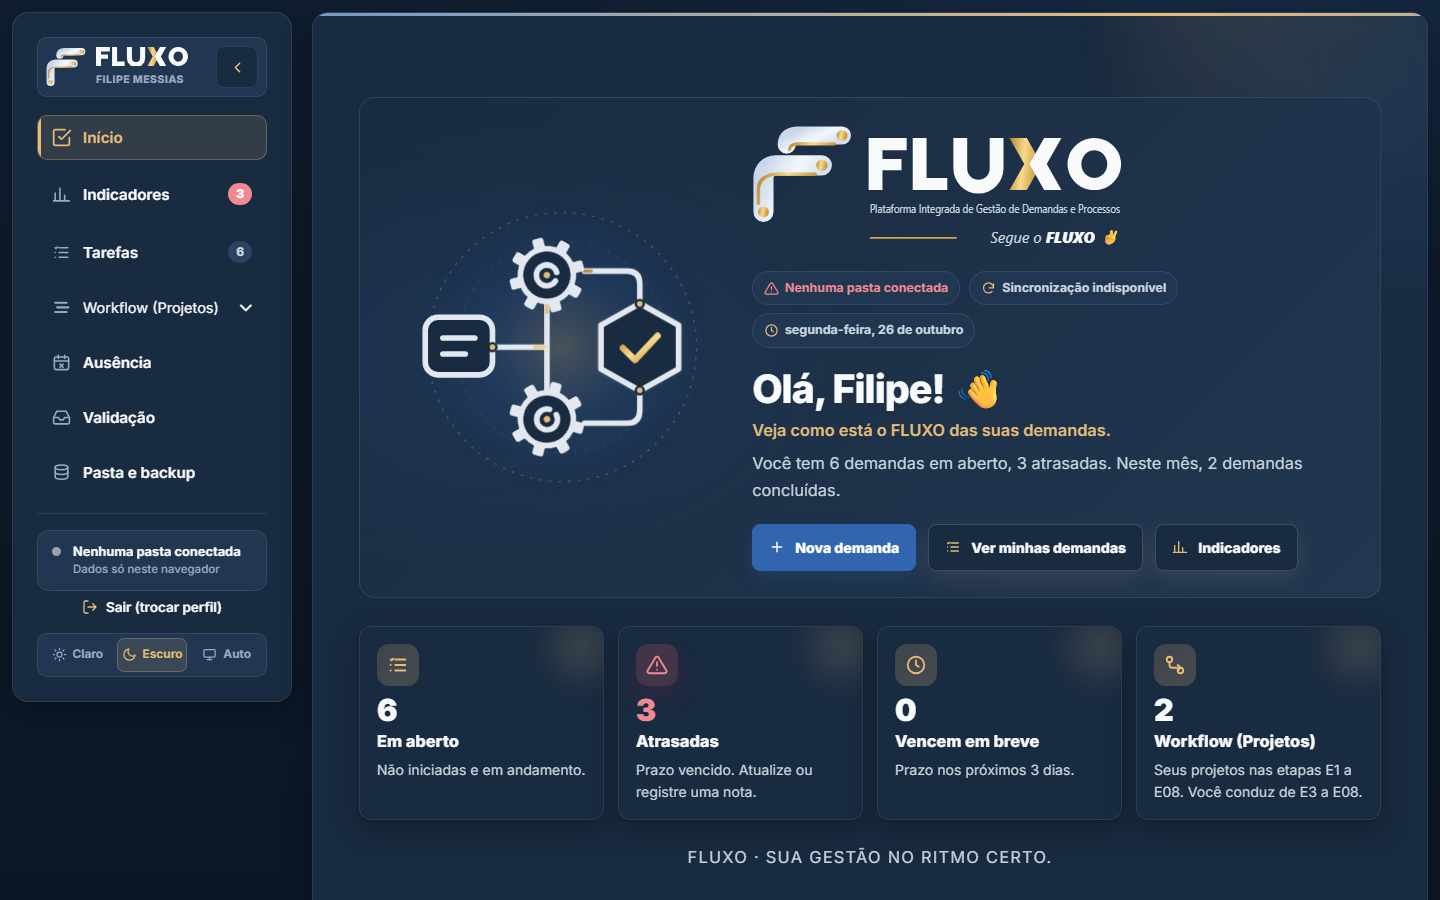
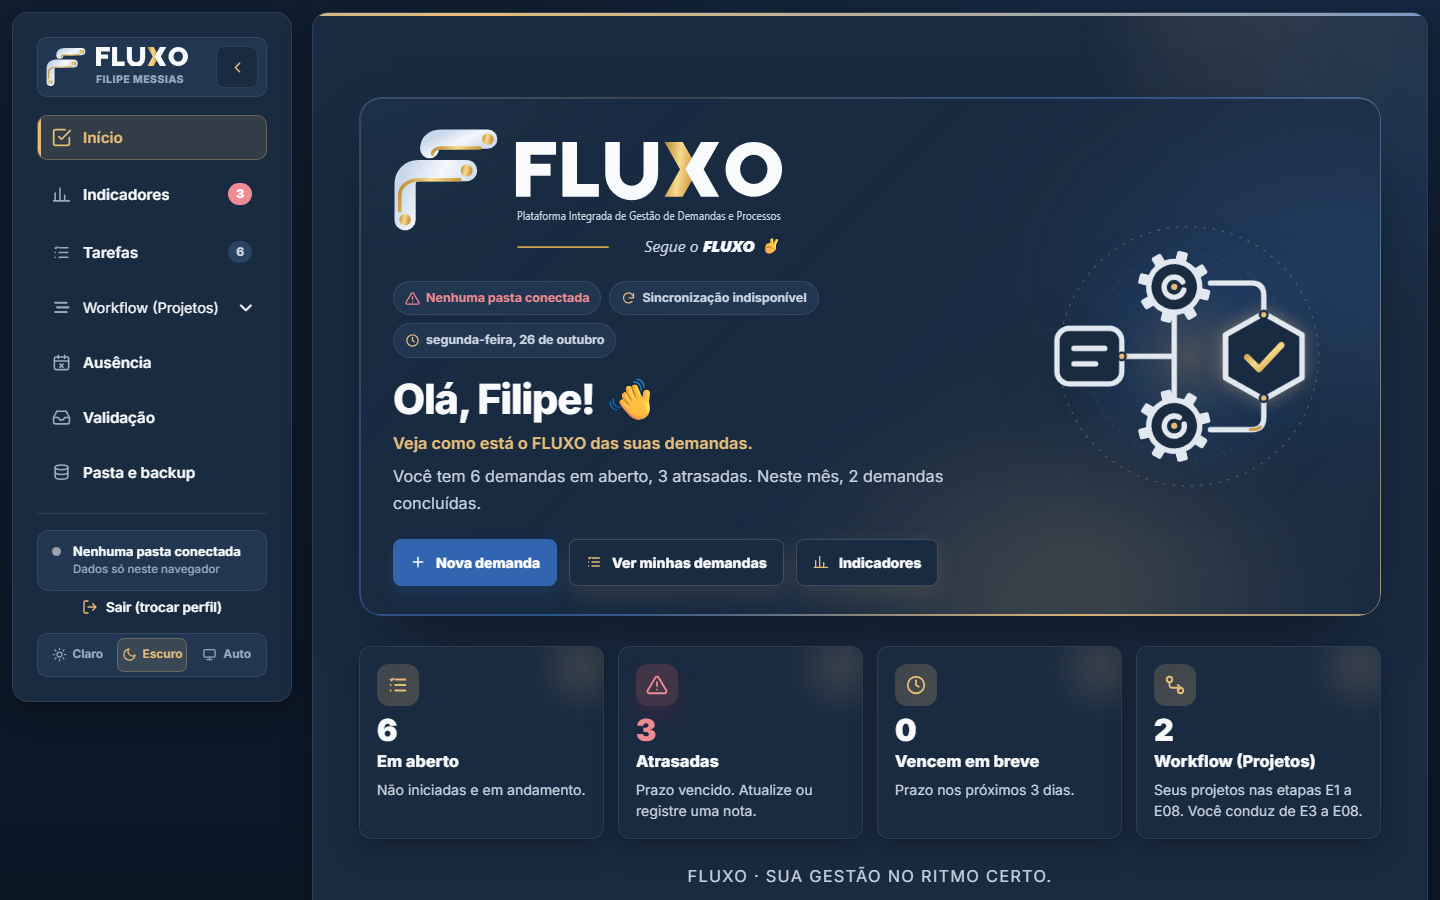
feat: capa do Início com marca à esquerda e ilustração à direita, mais efeitos
- Conteúdo (marca, estados, saudação, ações) à esquerda e ilustração à
  direita; o conteúdo vem primeiro no HTML (leitura e celular).
- Efeitos: borda com degradê animado, aurora ao fundo, luz que segue o
  cursor, inclinação 3D da ilustração, entrada em cascata só na primeira
  exibição e reflexo no botão principal.
- Animações à prova de falha (estado normal visível), efeitos de cursor
  só com mouse e desligados com prefers-reduced-motion.
- Responsividade em 5 faixas (Full HD, desktop, notebook, tablet, celular).

diff --git a/02-usuario/app/fluxo.css b/02-usuario/app/fluxo.css
@@ -336,30 +336,75 @@ dialog[open] { animation: fxPop var(--fx-base) var(--fx-ease); }
 .fx-home-marca img { width: min(380px, 82vw); height: auto; }
 @media (max-width: 760px) { .fx-home-marca img { width: min(300px, 86vw); } }
 
-/* ============ 11. Capa do Início: ilustração animada + marca ============ */
-.fx-capa { --fx-capa-traco: #0B2852; --fx-capa-fundo: #FFFFFF; display: grid; grid-template-columns: minmax(220px, .72fr) minmax(0, 1.28fr); gap: 26px; align-items: center; width: 100%; margin: 0 0 6px; padding: 26px 30px; border: 1px solid var(--fx-line); border-radius: var(--fx-radius-lg); background: radial-gradient(520px 320px at 12% 50%, rgba(57, 116, 198, .10), transparent 70%), linear-gradient(135deg, var(--fx-surface) 0%, var(--fx-surface-2) 100%); text-align: left; overflow: hidden; }
-:root[data-theme="dark"] .fx-capa { --fx-capa-traco: #E2E8F0; --fx-capa-fundo: #192B41; }
-@media (prefers-color-scheme: dark) { :root:not([data-theme="light"]) .fx-capa { --fx-capa-traco: #E2E8F0; --fx-capa-fundo: #192B41; } }
-.fx-capa-arte { position: relative; }
-.fx-capa-svg { display: block; width: 100%; max-width: 340px; height: auto; margin: 0 auto; overflow: visible; }
+/* ============ 11. Capa do Início: marca à esquerda, ilustração animada à direita ============ */
+.fx-capa {
+  --fx-capa-traco: #0B2852; --fx-capa-fundo: #FFFFFF; --fx-mx: 70%; --fx-my: 40%; --fx-rx: 0deg; --fx-ry: 0deg;
+  position: relative; isolation: isolate; display: grid; grid-template-columns: minmax(0, 1.3fr) minmax(240px, .7fr); gap: 28px; align-items: center;
+  width: 100%; margin: 0 0 8px; padding: 30px 34px; border-radius: 22px; text-align: left; overflow: hidden;
+  background: linear-gradient(135deg, rgba(var(--fx-surface-rgb), .92) 0%, rgba(var(--fx-surface-rgb), .78) 100%);
+  box-shadow: 0 1px 0 rgba(255, 255, 255, .6) inset, 0 24px 60px -28px rgba(16, 30, 48, .35);
+  backdrop-filter: blur(6px);
+}
+:root[data-theme="dark"] .fx-capa { --fx-capa-traco: #E2E8F0; --fx-capa-fundo: #192B41; box-shadow: 0 1px 0 rgba(255, 255, 255, .06) inset, 0 28px 70px -30px rgba(0, 0, 0, .7); }
+@media (prefers-color-scheme: dark) { :root:not([data-theme="light"]) .fx-capa { --fx-capa-traco: #E2E8F0; --fx-capa-fundo: #192B41; box-shadow: 0 1px 0 rgba(255, 255, 255, .06) inset, 0 28px 70px -30px rgba(0, 0, 0, .7); } }
+/* Borda com degradê animado (dourado ↔ azul) */
+.fx-capa::before {
+  content: ''; position: absolute; inset: 0; z-index: -1; padding: 1.5px; border-radius: inherit; pointer-events: none;
+  background: conic-gradient(from var(--fx-angulo, 0deg), rgba(230, 188, 121, .9), rgba(57, 116, 198, .55), rgba(230, 188, 121, .15), rgba(57, 116, 198, .55), rgba(230, 188, 121, .9));
+  -webkit-mask: linear-gradient(#000 0 0) content-box, linear-gradient(#000 0 0); -webkit-mask-composite: xor; mask-composite: exclude;
+  animation: fxBorda 10s linear infinite;
+}
+@property --fx-angulo { syntax: '<angle>'; inherits: false; initial-value: 0deg; }
+@keyframes fxBorda { to { --fx-angulo: 360deg; } }
+/* Luz que acompanha o cursor */
+.fx-capa::after {
+  content: ''; position: absolute; inset: 0; z-index: -1; pointer-events: none; opacity: 0; transition: opacity .35s ease;
+  background: radial-gradient(420px circle at var(--fx-mx) var(--fx-my), rgba(230, 188, 121, .16), transparent 60%);
+}
+.fx-capa.fx-ativa::after { opacity: 1; }
+/* Aurora: brilhos azul e dourado se movendo ao fundo */
+.fx-capa-aurora { position: absolute; inset: -30%; z-index: -2; pointer-events: none; filter: blur(48px); opacity: .55;
+  background: radial-gradient(28% 34% at 78% 40%, rgba(57, 116, 198, .45), transparent 70%), radial-gradient(24% 30% at 62% 78%, rgba(230, 188, 121, .38), transparent 70%), radial-gradient(22% 26% at 18% 12%, rgba(57, 116, 198, .22), transparent 70%);
+  animation: fxAurora 18s ease-in-out infinite alternate; }
+@keyframes fxAurora { 0% { transform: translate3d(0, 0, 0) rotate(0deg); } 50% { transform: translate3d(-4%, 3%, 0) rotate(8deg); } 100% { transform: translate3d(3%, -3%, 0) rotate(-6deg); } }
+
+/* Conteúdo (coluna esquerda) */
 .fx-capa-conteudo { min-width: 0; }
 .fx-capa-conteudo .fx-home-marca { margin: 0 0 18px; }
-.fx-capa-conteudo .fx-home-marca img { width: min(370px, 100%); }
-.fx-capa-conteudo .status-pill { padding: 7px 11px; font-size: .78rem; gap: 6px; }
-.fx-capa-conteudo .status-badges { gap: 8px; }
+.fx-capa-conteudo .fx-home-marca img { width: min(390px, 100%); }
+.fx-capa-conteudo .status-badges { justify-content: flex-start; gap: 8px; margin: 0 0 18px; }
+.fx-capa-conteudo .status-pill { padding: 7px 11px; font-size: .78rem; gap: 6px; backdrop-filter: blur(4px); }
+.fx-capa-conteudo h2 { margin: 0 0 6px; text-align: left; font-size: clamp(1.9rem, 3.2vw, 2.6rem); letter-spacing: -.03em; }
+.fx-capa-conteudo p { margin: 0; max-width: 60ch; color: var(--fx-ink-2); font-size: 1.02rem; line-height: 1.65; }
+.fx-capa-conteudo p.fx-kicker { margin: 0 0 6px; color: var(--fx-brand-ink); font-weight: 650; }
+.fx-capa-conteudo .primary-actions { justify-content: flex-start; margin: 22px 0 0; }
+.fx-capa-conteudo .primary-actions .cta { position: relative; overflow: hidden; }
+.fx-capa-conteudo .primary-actions .cta::after { content: ''; position: absolute; inset: 0; background: linear-gradient(110deg, transparent 30%, rgba(255, 255, 255, .35) 50%, transparent 70%); transform: translateX(-120%); animation: fxBrilhoBotao 5s ease-in-out 1.6s infinite; pointer-events: none; }
+@keyframes fxBrilhoBotao { 0%, 70% { transform: translateX(-120%); } 85%, 100% { transform: translateX(120%); } }
 .welcome-section { max-width: 1120px; }
-.fx-capa-conteudo .status-badges { justify-content: flex-start; margin: 0 0 18px; }
-.fx-capa-conteudo h2 { margin: 0 0 6px; text-align: left; }
-.fx-capa-conteudo p { margin: 0; color: var(--fx-ink-2); font-size: 1.02rem; line-height: 1.65; }
-.fx-capa-conteudo p.fx-kicker { margin: 0 0 6px; color: var(--fx-brand-ink); font-weight: 600; }
-.fx-capa-conteudo .primary-actions { justify-content: flex-start; margin: 20px 0 0; }
+
+/* Entrada em cascata (apenas na primeira exibição) */
+.fx-entrada .fx-capa-conteudo > * { animation: fxSobe .6s var(--fx-ease) backwards; }
+.fx-entrada .fx-capa-conteudo > :nth-child(2) { animation-delay: .08s; }
+.fx-entrada .fx-capa-conteudo > :nth-child(3) { animation-delay: .16s; }
+.fx-entrada .fx-capa-conteudo > :nth-child(4) { animation-delay: .22s; }
+.fx-entrada .fx-capa-conteudo > :nth-child(5) { animation-delay: .28s; }
+.fx-entrada .fx-capa-conteudo > :nth-child(6) { animation-delay: .34s; }
+.fx-entrada .fx-capa-arte { animation: fxSurge .9s var(--fx-ease) .2s backwards; }
+@keyframes fxSobe { from { opacity: 0; transform: translateY(14px); } to { opacity: 1; transform: none; } }
+@keyframes fxSurge { from { opacity: 0; transform: scale(.92) translateX(16px); } to { opacity: 1; transform: none; } }
+
+/* Ilustração (coluna direita) com inclinação 3D */
+.fx-capa-arte { position: relative; perspective: 900px; }
+.fx-capa-palco { transform: rotateX(var(--fx-rx)) rotateY(var(--fx-ry)); transform-style: preserve-3d; transition: transform .25s ease-out; will-change: transform; }
+.fx-capa-svg { display: block; width: 100%; max-width: 340px; height: auto; margin: 0 auto; overflow: visible; filter: drop-shadow(0 18px 28px rgba(16, 30, 48, .18)); }
 
 /* Traços da ilustração (seguem o tema) */
 .fx-capa-linhas path, .fx-capa-doc rect, .fx-capa-doc path, .fx-capa-aro, .fx-capa-seta, .fx-capa-hex path:first-child { fill: none; stroke: var(--fx-capa-traco); stroke-width: 7; stroke-linecap: round; stroke-linejoin: round; }
 .fx-capa-doc rect, .fx-capa-aro, .fx-capa-hex path:first-child { fill: var(--fx-capa-fundo); }
 .fx-capa-dentes rect { fill: var(--fx-capa-traco); }
 .fx-capa-eixo { fill: #E6BC79; }
-.fx-capa-check { fill: none; stroke: url(#fxCapaOuro); stroke-width: 8; stroke-linecap: round; stroke-linejoin: round; stroke-dasharray: 64; stroke-dashoffset: 64; animation: fxCheck 1.1s .5s var(--fx-ease) forwards; }
+.fx-capa-check { fill: none; stroke: url(#fxCapaOuro); stroke-width: 8; stroke-linecap: round; stroke-linejoin: round; stroke-dasharray: 64; stroke-dashoffset: 0; animation: fxCheck 1.1s .6s var(--fx-ease) backwards; }
 .fx-capa-no { fill: #E6BC79; stroke: var(--fx-capa-fundo); stroke-width: 3; }
 .fx-capa-orbita { fill: none; stroke: rgba(230, 188, 121, .35); stroke-width: 1.5; stroke-dasharray: 3 9; transform-origin: 215px 200px; animation: fxGira 60s linear infinite; }
 .fx-capa-orbita-2 { stroke: rgba(57, 116, 198, .30); animation-duration: 40s; animation-direction: reverse; }
@@ -375,27 +420,39 @@ dialog[open] { animation: fxPop var(--fx-base) var(--fx-ease); }
 .fx-capa-doc { animation: fxFlutua 4.5s ease-in-out infinite; }
 .fx-capa-hex { transform-box: fill-box; transform-origin: center; animation: fxPulso 3.2s ease-in-out infinite; }
 .fx-capa-halo { transform-origin: 215px 200px; animation: fxRespira 6s ease-in-out infinite; }
-.fx-capa:hover .fx-gear-a, .fx-capa:hover .fx-gear-b { animation-duration: 4.5s; }
+.fx-capa.fx-ativa .fx-gear-a, .fx-capa.fx-ativa .fx-gear-b { animation-duration: 4.5s; }
 @keyframes fxGira { to { transform: rotate(360deg); } }
 @keyframes fxFluxo { from { stroke-dashoffset: 234; } to { stroke-dashoffset: 0; } }
 @keyframes fxFlutua { 0%, 100% { transform: translateY(0); } 50% { transform: translateY(-6px); } }
 @keyframes fxPulso { 0%, 100% { transform: scale(1); filter: drop-shadow(0 0 0 rgba(230, 188, 121, 0)); } 50% { transform: scale(1.04); filter: drop-shadow(0 0 14px rgba(230, 188, 121, .55)); } }
 @keyframes fxRespira { 0%, 100% { opacity: .75; transform: scale(.97); } 50% { opacity: 1; transform: scale(1.03); } }
-@keyframes fxCheck { to { stroke-dashoffset: 0; } }
-@media (prefers-reduced-motion: reduce) {
-  .fx-capa-check { stroke-dashoffset: 0; }
-  .fx-capa-fluxo { display: none; }
+@keyframes fxCheck { from { stroke-dashoffset: 64; } }
+
+/* Responsividade */
+@media (min-width: 1101px) and (max-width: 1360px) {
+  .fx-capa { grid-template-columns: minmax(0, 1.42fr) minmax(200px, .58fr); gap: 18px; padding: 26px 24px; }
+  .fx-capa-svg { max-width: 270px; }
+  .fx-capa-conteudo .primary-actions .cta, .fx-capa-conteudo .primary-actions .ghost-btn { padding-left: 14px; padding-right: 14px; }
 }
 @media (max-width: 1100px) {
-  .fx-capa { grid-template-columns: 1fr; gap: 10px; padding: 22px 18px; text-align: center; }
-  .fx-capa-svg { max-width: 250px; }
-  .fx-capa-conteudo .fx-home-marca { margin: 0 auto 16px; }
+  .fx-capa { grid-template-columns: 1fr; gap: 6px; padding: 24px 20px; text-align: center; }
   .fx-capa-conteudo .fx-home-marca img { margin: 0 auto; }
   .fx-capa-conteudo .status-badges, .fx-capa-conteudo .primary-actions { justify-content: center; }
   .fx-capa-conteudo h2 { text-align: center; }
+  .fx-capa-conteudo p { margin-left: auto; margin-right: auto; }
+  .fx-capa-arte { order: 2; margin-top: 8px; }
+  .fx-capa-svg { max-width: 260px; }
 }
-@media (min-width: 1101px) and (max-width: 1360px) {
-  .fx-capa { grid-template-columns: minmax(200px, .58fr) minmax(0, 1.42fr); gap: 18px; padding: 24px 22px; }
-  .fx-capa-svg { max-width: 270px; }
-  .fx-capa-conteudo .primary-actions .cta, .fx-capa-conteudo .primary-actions .ghost-btn { padding-left: 14px; padding-right: 14px; }
+@media (max-width: 480px) {
+  .fx-capa { padding: 20px 14px; border-radius: 18px; }
+  .fx-capa-svg { max-width: 200px; }
+  .fx-capa-conteudo .fx-home-marca img { width: min(300px, 100%); }
+}
+@media (prefers-reduced-motion: reduce) {
+  .fx-capa-fluxo, .fx-capa-aurora, .fx-capa-conteudo .primary-actions .cta::after { display: none; }
+  .fx-capa-palco { transform: none; }
+}
+@media (min-width: 1600px) {
+  .fx-capa { grid-template-columns: minmax(0, 1.12fr) minmax(280px, .88fr); }
+  .fx-capa-svg { max-width: 400px; }
 }

diff --git a/02-usuario/app/pgd.js b/02-usuario/app/pgd.js
@@ -4262,6 +4262,31 @@ const FX_CAPA_ARTE = `<svg class="fx-capa-svg" viewBox="0 0 420 400" role="img" 
   <g class="fx-capa-hex"><path d="M312 146L360 173V227L312 254L264 227V173Z"/><path d="M291 201L306 216L334 186" class="fx-capa-check"/></g>
   <circle cx="128" cy="200" r="5" class="fx-capa-no"/><circle cx="312" cy="146" r="5" class="fx-capa-no"/><circle cx="312" cy="254" r="5" class="fx-capa-no"/>
 </svg>`;
+// Entrada em cascata só na primeira exibição da capa (a tela é redesenhada a cada sincronização)
+let fxCapaJaAnimada = false;
+const fxCapaEntrada = () => { if (fxCapaJaAnimada) return ''; fxCapaJaAnimada = true; return ' fx-entrada'; };
+// Luz que segue o cursor e inclinação 3D da ilustração (só com mouse e sem "reduzir animações")
+const fxMovimentoOk = () => matchMedia('(pointer: fine)').matches && !matchMedia('(prefers-reduced-motion: reduce)').matches;
+let fxCapaQuadro = 0;
+document.addEventListener('pointermove', e => {
+  const capa = e.target.closest && e.target.closest('.fx-capa');
+  if (!capa || !fxMovimentoOk()) return;
+  cancelAnimationFrame(fxCapaQuadro);
+  fxCapaQuadro = requestAnimationFrame(() => {
+    const r = capa.getBoundingClientRect(), x = (e.clientX - r.left) / r.width, y = (e.clientY - r.top) / r.height;
+    capa.style.setProperty('--fx-mx', (x * 100).toFixed(1) + '%');
+    capa.style.setProperty('--fx-my', (y * 100).toFixed(1) + '%');
+    capa.style.setProperty('--fx-ry', ((x - .5) * 14).toFixed(2) + 'deg');
+    capa.style.setProperty('--fx-rx', ((.5 - y) * 10).toFixed(2) + 'deg');
+    capa.classList.add('fx-ativa');
+  });
+}, { passive:true });
+document.addEventListener('pointerout', e => {
+  const capa = e.target.closest && e.target.closest('.fx-capa');
+  if (!capa || (e.relatedTarget && capa.contains(e.relatedTarget))) return;
+  capa.classList.remove('fx-ativa');
+  capa.style.setProperty('--fx-rx', '0deg'); capa.style.setProperty('--fx-ry', '0deg');
+});
 function renderNav() {
   const isSup = isTeam();
   const all = isSup ? teamTasks() : data.tasks;
@@ -4460,8 +4485,8 @@ function renderHome() {
     if (ss.length) extra += `<p class="banner info"><span>${I.away} Você está respondendo por ${ss.map(s => `<b>${esc(s.supervisor)}</b> (até ${fmtDate(ausOf(s.id).fim)})`).join(', ')}. Designe, altere prazos, escreva notas e responda às solicitações na tela Substituição.</span><button class="btn sm primary" data-act="go" data-view="substituicao">Abrir substituição</button></p>`;
   }
   $('#homeArea').innerHTML = `
-    <section class="fx-capa" aria-label="Apresentação">
-      <div class="fx-capa-arte" aria-hidden="true">${FX_CAPA_ARTE}</div>
+    <section class="fx-capa${fxCapaEntrada()}" aria-label="Apresentação">
+      <span class="fx-capa-aurora" aria-hidden="true"></span>
       <div class="fx-capa-conteudo">
         ${FX_MARCA_INICIO}
         <div class="status-badges">${pills.join('')}</div>
@@ -4470,6 +4495,7 @@ function renderHome() {
         <p class="fx-capa-lead">${esc(lead)}</p>
         <div class="primary-actions">${actions}</div>
       </div>
+      <div class="fx-capa-arte" aria-hidden="true"><div class="fx-capa-palco">${FX_CAPA_ARTE}</div></div>
     </section>
     ${extra ? `<div class="home-extra">${extra}</div>` : ''}
     <div class="feature-grid">${cards}</div>

diff --git a/02-usuario/app/marca/README.md b/02-usuario/app/marca/README.md
@@ -42,7 +42,7 @@ A palavra FLUXO é desenhada como vetor (não é texto em fonte). Por isso apare
 | --- | --- |
 | Menu lateral expandido | Símbolo + palavra FLUXO + nome do usuário (dinâmico), no cartão do cabeçalho |
 | Menu lateral recolhido | Só o símbolo |
-| Início (analista e supervisão) | Capa em duas colunas: à esquerda, a ilustração animada do fluxo; à direita, a logo completa com descrição e slogan, seguida dos estados da pasta, da saudação e das ações. Os indicadores vêm abaixo |
+| Início (analista e supervisão) | Capa em duas colunas: à esquerda, a logo completa com descrição e slogan, seguida dos estados da pasta, da saudação e das ações; à direita, a ilustração animada do fluxo. Os indicadores vêm abaixo |
 | Login: área institucional | Logo completa (versão escura) no topo esquerdo |
 | Login: cartão de acesso | Símbolo + FLUXO, acima de "Acesse o FLUXO" |
 | Telas internas (Tarefas, Workflow, Indicadores, Validação, Ausência, Pasta e backup, Dashboard) | Marca compacta do menu lateral; a logo completa não se repete |
@@ -55,17 +55,37 @@ Cada local carrega a versão clara e a escura do ativo. A regra `.fx-claro` / `.
 
 ## Ilustração da capa do Início
 
-É uma ilustração em vetor, desenhada nas cores da marca a partir do ícone de processo (documento → duas engrenagens → hexágono de aprovação). Fica embutida em `../pgd.js` (`FX_CAPA_ARTE`), com o estilo e as animações em `../fluxo.css` (seção 11). As animações são:
+A capa tem duas colunas: **à esquerda**, a marca, os estados da pasta, a saudação e as ações; **à direita**, a ilustração. No HTML, o conteúdo vem primeiro, então leitores de tela e o celular leem a marca e a saudação antes da ilustração, que é decorativa (`aria-hidden`).
 
-- engrenagens girando em sentidos opostos, mais rápidas ao passar o mouse;
-- pulsos dourados percorrendo as conexões;
-- documento flutuando;
-- hexágono pulsando com brilho dourado e o check se desenhando;
-- halo e órbitas girando ao fundo.
+A ilustração é um vetor desenhado nas cores da marca a partir do ícone de processo (documento → duas engrenagens → hexágono de aprovação). Fica embutida em `../pgd.js` (`FX_CAPA_ARTE`), com o estilo e os efeitos em `../fluxo.css` (seção 11).
 
-Os traços acompanham o tema: azul-marinho no claro, quase branco no escuro. Com `prefers-reduced-motion`, os movimentos são desligados.
+**Efeitos**
 
-Abaixo de 1100 px, a capa vira uma coluna, com a ilustração acima da marca.
+| Efeito | Como funciona |
+| --- | --- |
+| Borda viva | Degradê dourado ↔ azul girando em volta da capa |
+| Aurora | Brilhos azul e dourado desfocados se movendo devagar ao fundo |
+| Luz do cursor | Brilho suave que acompanha o mouse sobre a capa |
+| Inclinação 3D | A ilustração inclina em perspectiva conforme a posição do mouse |
+| Entrada em cascata | Marca, estados, saudação e ações sobem em sequência. Só na primeira exibição, para não repetir a cada sincronização |
+| Ilustração viva | Engrenagens girando em sentidos opostos (mais rápidas com o mouse), pulsos dourados nas conexões, documento flutuando, hexágono pulsando, check se desenhando, halo e órbitas |
+| Botão principal | Um reflexo de luz percorre "Nova demanda" de tempos em tempos |
+
+**Boas práticas**
+
+- O estado normal é sempre visível: as animações só aplicam o estado inicial durante a entrada. Se uma animação não rodar, nada fica escondido.
+- Os efeitos que seguem o mouse ficam desligados em telas de toque (`pointer: fine`). Com "reduzir animações" (`prefers-reduced-motion`), os movimentos param e a ilustração aparece completa.
+- Os traços e o vidro da capa acompanham o tema: azul-marinho no claro, quase branco no escuro.
+
+**Responsividade**
+
+| Largura | Layout |
+| --- | --- |
+| ≥ 1600 px | Duas colunas, ilustração até 400 px |
+| 1361–1599 px | Duas colunas (conteúdo 1,3 : ilustração 0,7) |
+| 1101–1360 px (notebook) | Duas colunas compactas, ilustração até 270 px |
+| ≤ 1100 px (tablet) | Uma coluna centralizada, com a ilustração abaixo do conteúdo (até 260 px) |
+| ≤ 480 px (celular) | Ilustração até 200 px e botões na largura total, para facilitar o toque |
 
 ## Diferenças conhecidas em relação à prancha
 
@@ -82,4 +102,4 @@ Geradas no Microsoft Edge (1440 × 900; celular 390 px), com o sistema rodando:
 - `05-menu-recolhido.png`.
 - `06-supervisao-inicio-claro.png`, `07-supervisao-inicio-escuro.png`.
 - `09-workflow-claro.png`, `10-tarefas-escuro.png`, `11-indicadores-claro.png`.
-- `13-inicio-notebook.png`: capa em 1280 px.
+- `13-inicio-notebook.png`, `14-inicio-tablet.png`, `15-inicio-fullhd.png`: capa em 1280 px, 820 px e 1920 px.

diff --git a/README.md b/README.md
@@ -189,7 +189,7 @@ Os dois painéis usam o mesmo motor (`pgd.js`). O `mode` do preset decide o menu
 
 | Item | Para que serve |
 | --- | --- |
-| **Início** | Capa com a ilustração animada do fluxo e a logo FLUXO lado a lado. Em seguida, boas-vindas com cartões de atalho (em aberto, atrasadas, vencem em breve, Workflow). |
+| **Início** | Capa moderna com a logo FLUXO, estados, saudação e ações à esquerda e a ilustração animada do fluxo à direita (borda viva, aurora, luz do cursor e inclinação 3D). Em seguida, boas-vindas com cartões de atalho (em aberto, atrasadas, vencem em breve, Workflow). |
 | **Indicadores** | Cartões por situação, itens que pedem atenção, régua de prazos, tabela por assunto e ritmo da semana. |
 | **Tarefas** | Lista e quadro das suas demandas: filtros, nova demanda, notas de andamento, anexos, recorrência, relatório em PDF/Excel. |
 | **Workflow (Projetos)** (grupo) | O título só abre e fecha a lista, com animação. Dentro ficam **Workflow** (tracker) e **E3 — Levantamento**, **E4 — Execução**, **E5 — Validação**, **E6 — Ajustes**, **E7 — Entrega**, **E08 — Hypercare** (seção 6). A lista começa fechada e já vem aberta quando a tela atual é do Workflow. |
